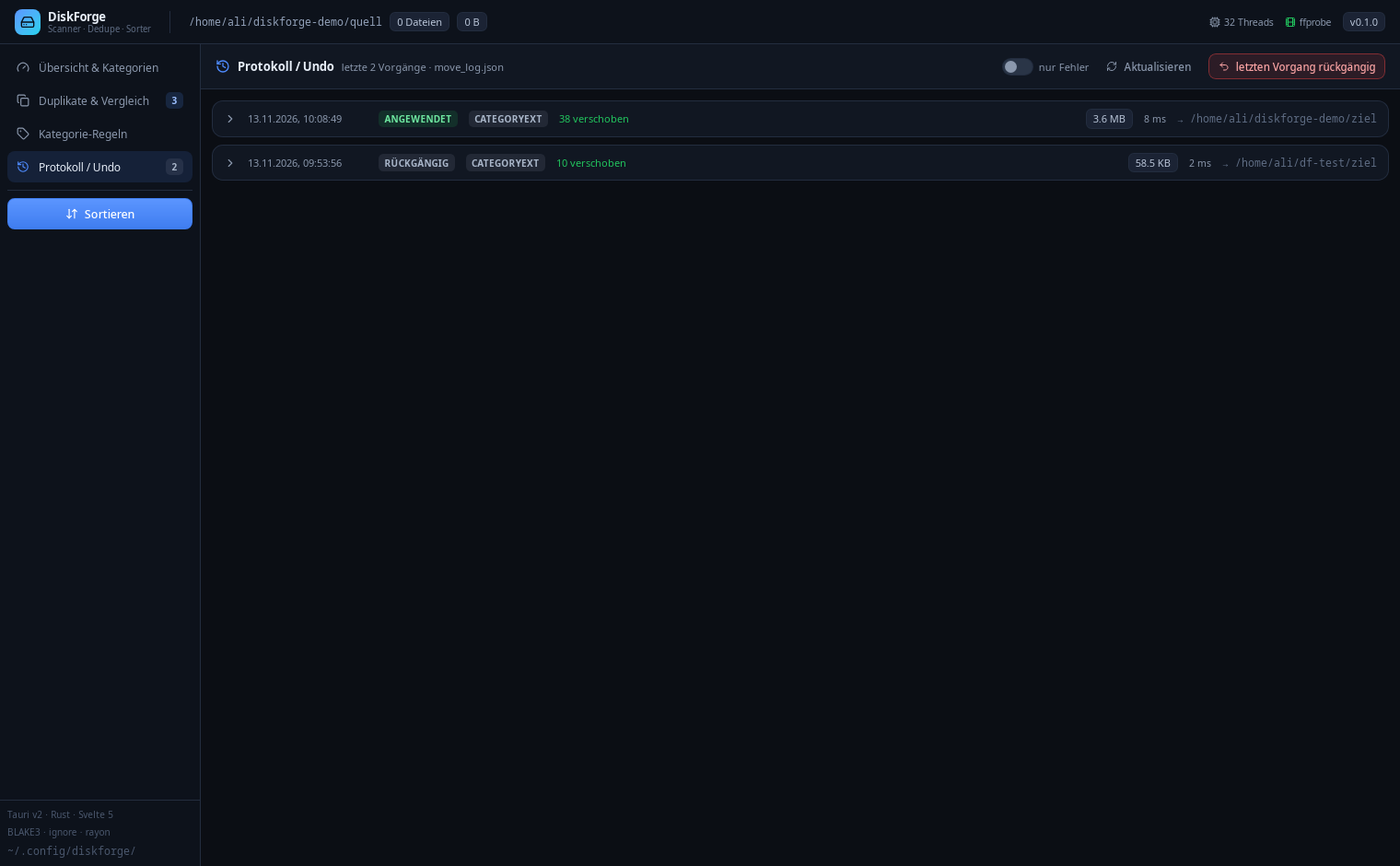
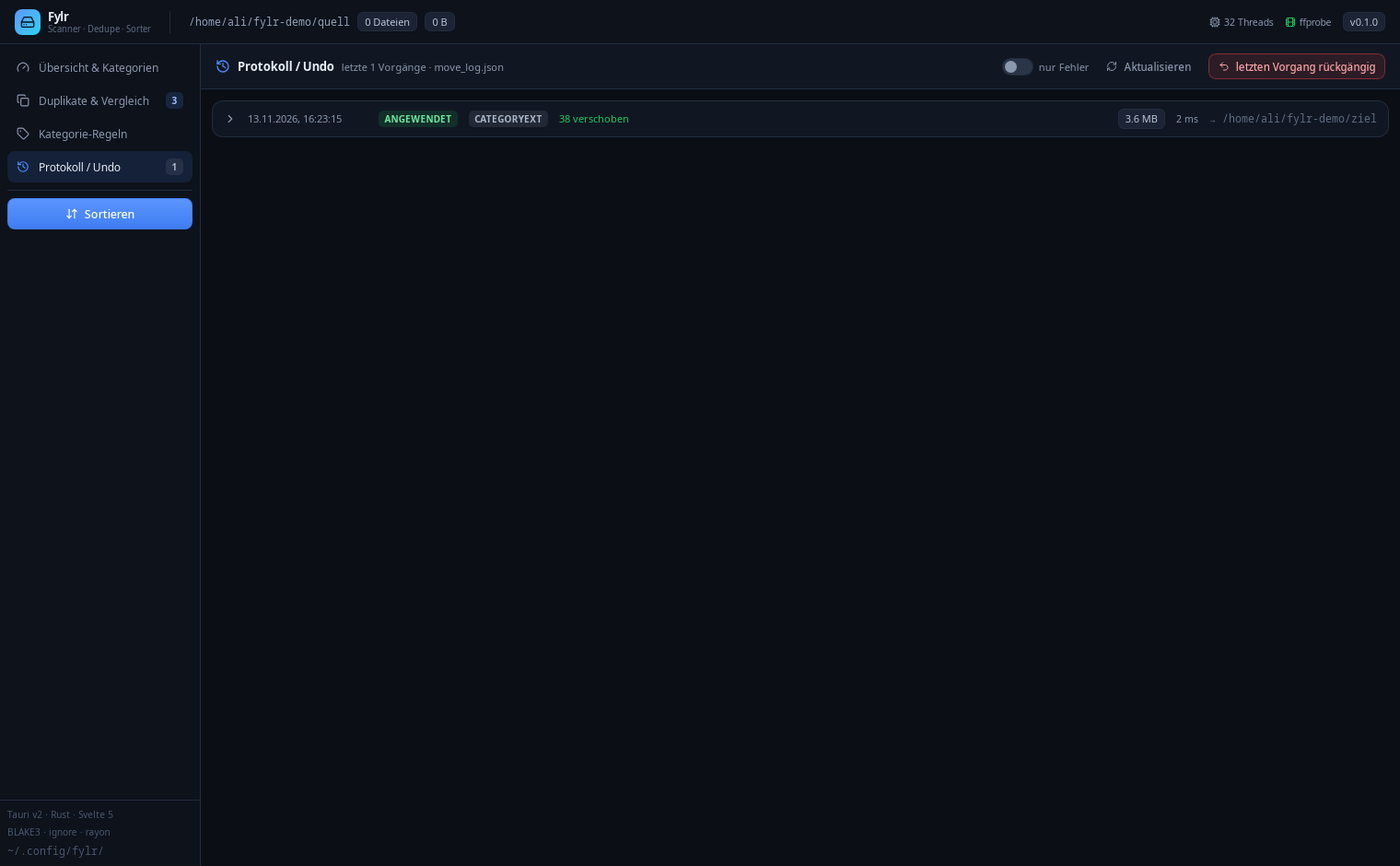
chore(release): 0.2.0 — Umbenennung in Fylr, Screenshots und CHANGELOG aktualisiert

diff --git a/CHANGELOG.md b/CHANGELOG.md
@@ -6,6 +6,18 @@ Versionierung nach [Semantic Versioning](https://semver.org/lang/de/).
 
 ## [Unreleased]
 
+## [0.2.0] — 2026-11-13
+
+### Geändert — Umbenennung in Fylr
+- Projektname von **DiskForge** auf **Fylr** geändert: Binary `fylr`, Crate `fylr_lib`,
+  Tauri-Identifier `com.alicgn.fylr`, Fenstertitel „Fylr — Disk Analyzer & Sorter".
+- Konfigurationsverzeichnis: `~/.config/diskforge/` → `~/.config/fylr/`
+  (`categories.json`, `move_log.json`). Bestehende Regeln müssen einmalig kopiert werden.
+- Test-Isolation über `FYLR_HOME` statt `DISKFORGE_HOME`.
+- Menüeintrag und Icons heißen `fylr`, Kategorien im `.desktop` korrigiert
+  (`Utility;FileTools;Qt;KDE;`).
+- Screenshots neu erzeugt, GitHub-Repo umbenannt: `ALICGN/fylr`.
+
 ## [0.1.0] — 2026-11-13
 
 ### Hinzugefügt
